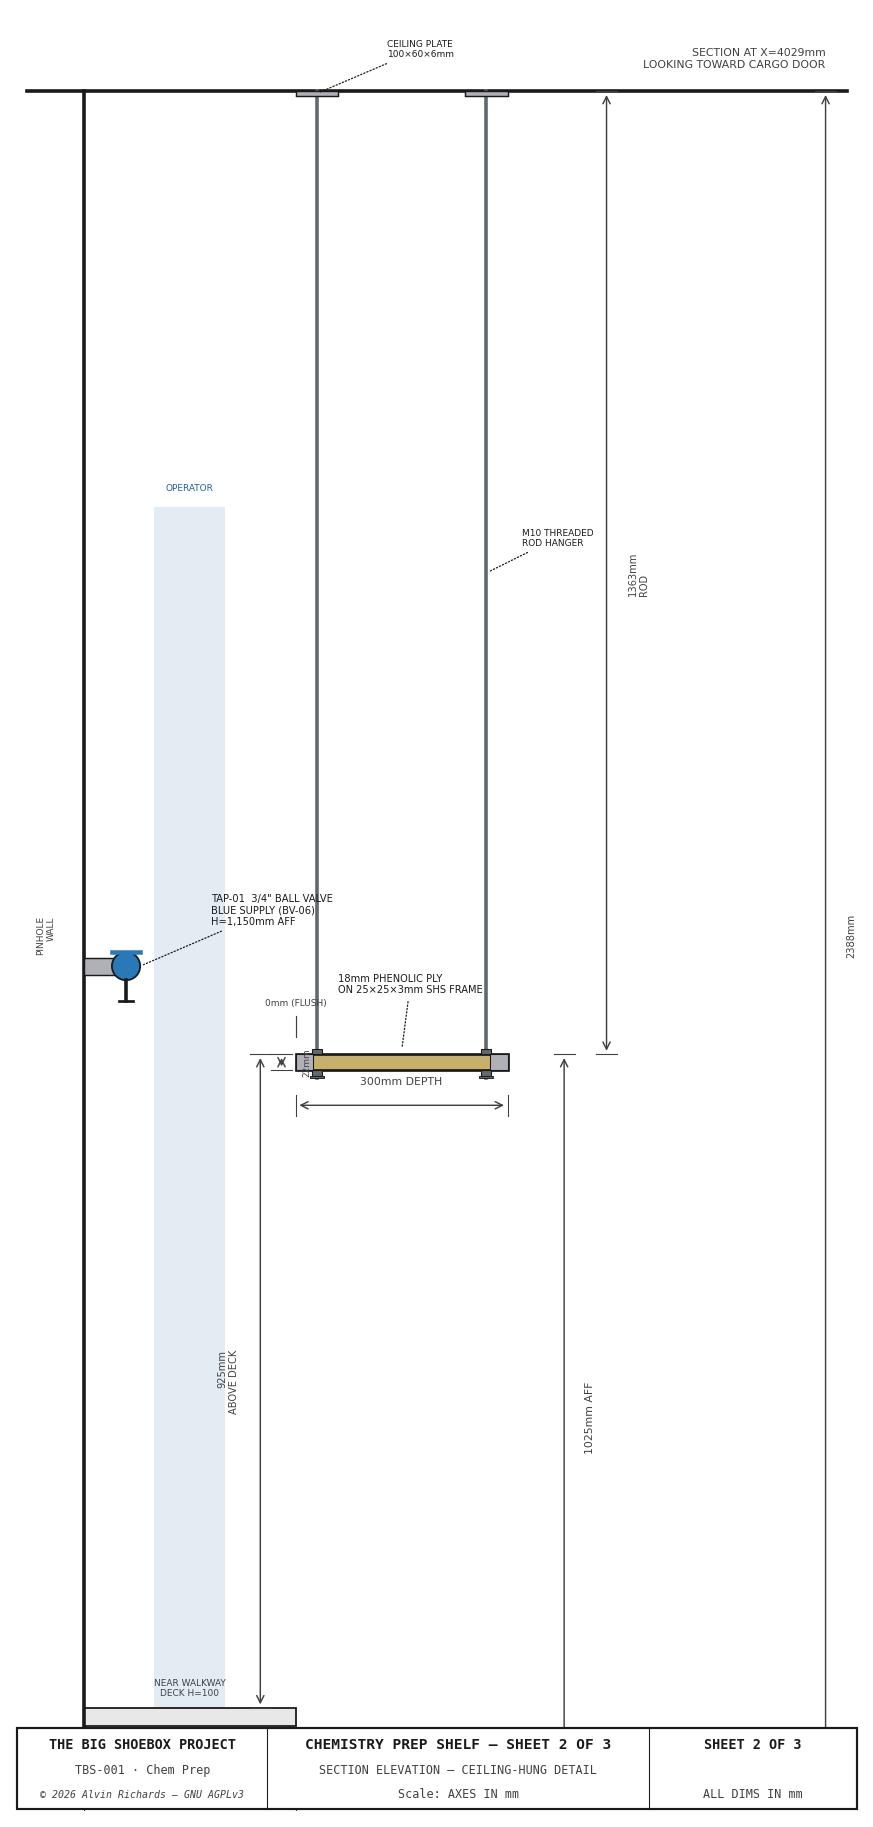
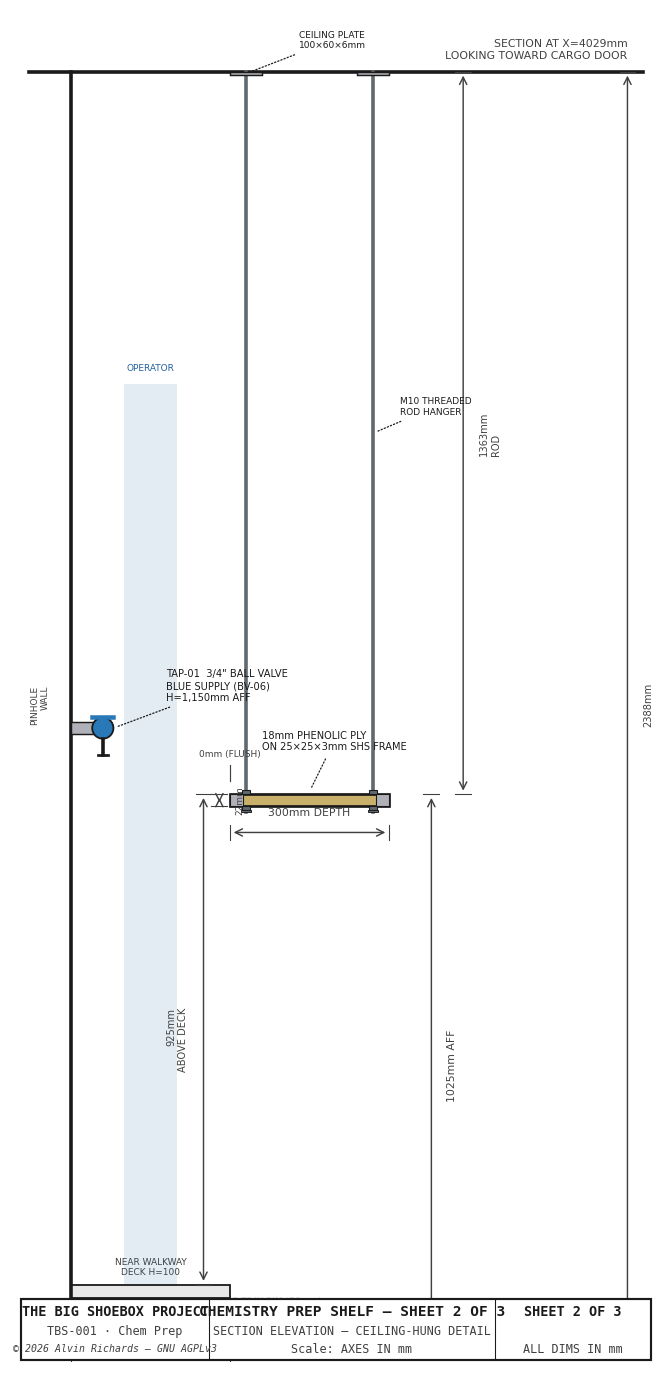
Shelf sheet 2: reduce diagram size 25% (figsize 16×18 → 12×13.5)

Changed region(s): [[0.0, 0.0, 0.991, 0.9993]]

diff --git a/generate_shelf_diagram.py b/generate_shelf_diagram.py
@@ -272,7 +272,7 @@ def sheet2():
     def px(yd): return yd
     def pz(z): return z
 
-    fig, ax = plt.subplots(figsize=(16, 18), facecolor=BG)
+    fig, ax = plt.subplots(figsize=(12, 13.5), facecolor=BG)
     ax.set_facecolor(BG)
     ax.set_xlim(YD_LO, YD_HI)
     ax.set_ylim(Z_LO, Z_HI)
@@ -647,7 +647,7 @@ def sheet3():
         "2. Use spirit level across all 4 rods",
         "   during installation.",
     ]
-    draw_notes(ax, notes, px(YD_HI + 30), pz(Z_LO + 50), spacing=12,
+    draw_notes(ax, notes, px(YD_HI - 250), pz(Z_LO + 120), spacing=7,
                fs=5.5, width=200, font={"fontfamily": "monospace"})
 
     # ── Title block ──
